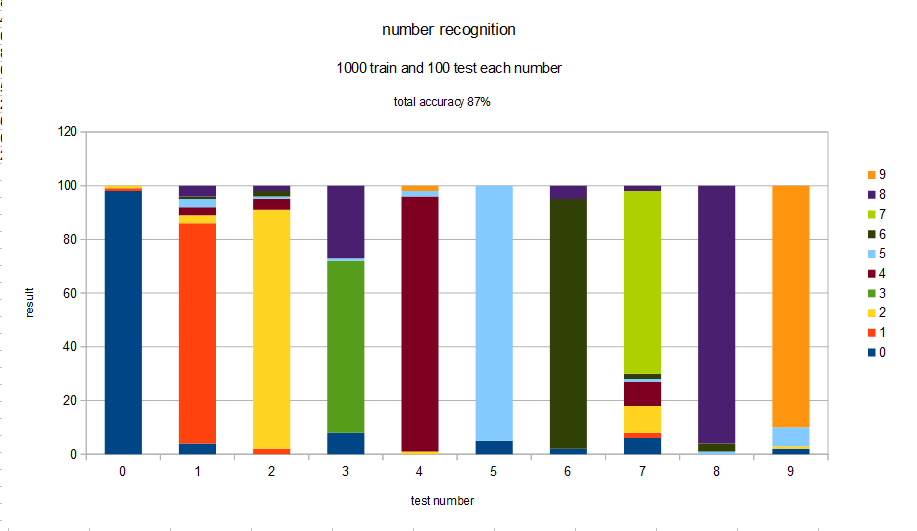
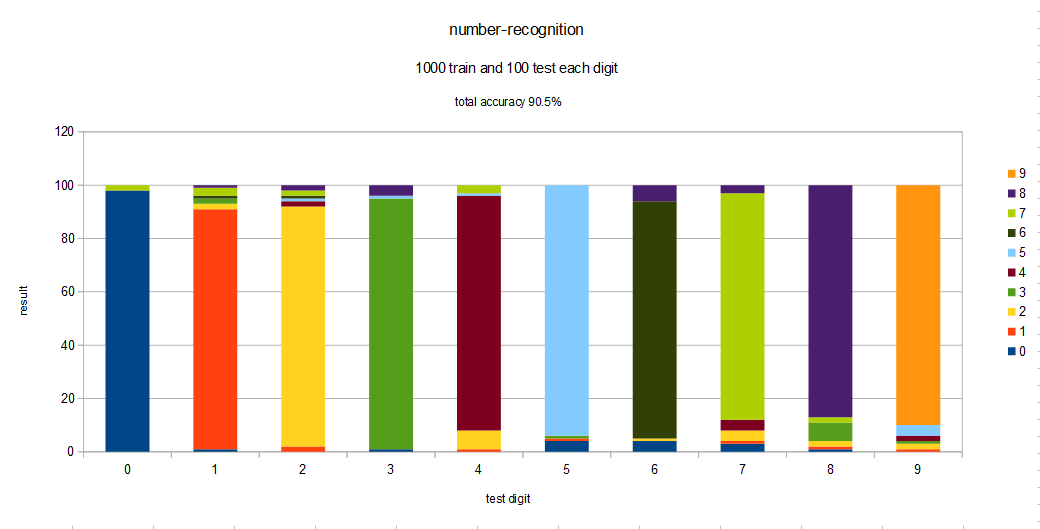
update

diff --git a/main.py b/main.py
@@ -32,8 +32,11 @@ cnt = 1
 for data in train:
     #print cnt
     res = umikaze.watch(data.form)
+    '''
     if res != data.ans:
         umikaze.back(data.ans, data.form)
+    '''
+    umikaze.back(data.ans, data.form)
     cnt += 1
 
 print 'done.'

diff --git a/recog.py b/recog.py
@@ -9,8 +9,8 @@ def sigmoid(z):
     return ((z/(abs(z)+1))+1)/2
     #return ((1/(math.exp(-z)+1))+1)/2
 
-wl = -0.5
-rl = 0.5
+wl = -1
+rl = 1
 
 mid = 25
 
